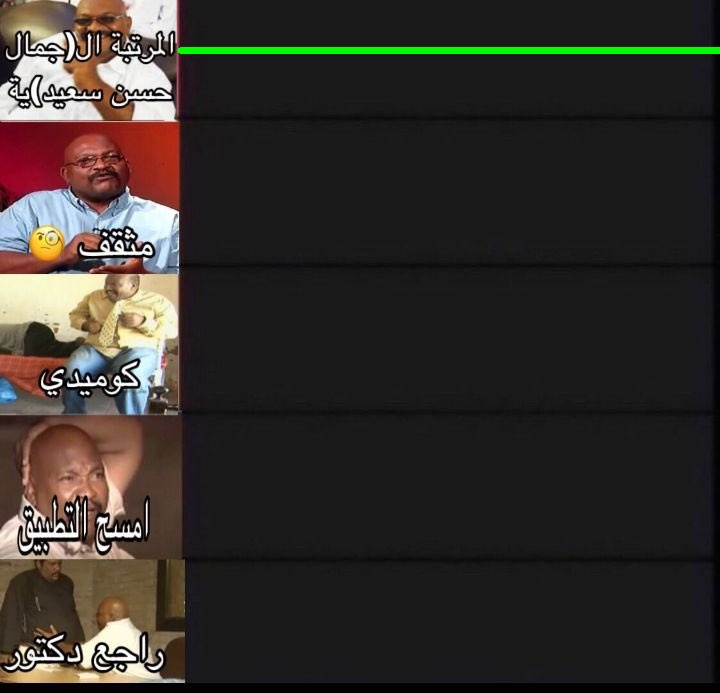
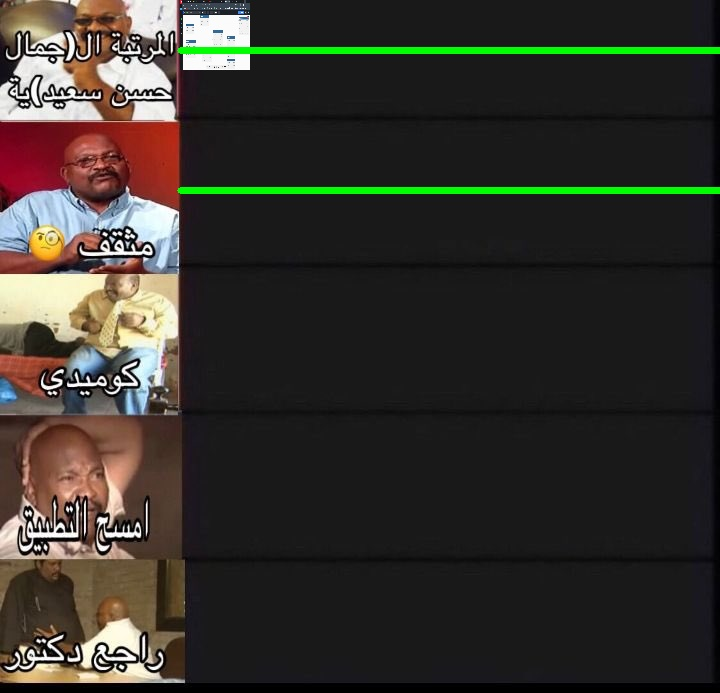
naseem

Changed region(s): [[0.2444, 0.2424, 1.0, 0.303], [0.2444, 0.0, 0.3667, 0.1212]]

diff --git a/twitter.py b/twitter.py
@@ -3,18 +3,43 @@ import numpy as np
 import cv2 
 import glob
 
-start = 50
-
+v_start = 50
+v_step = 70
+h_start = 180
+h_step = 50
 main = cv2.imread("main.jpg",1)
 images = [cv2.imread(file) for file in glob.glob("avatars/*.png")]
 height = int(main.shape[0])
 width = int(main.shape[1])
+
+def add_image(main,image,category,order):
+    w,h,c = image.shape
+
+    image = cv2.resize(image,(70,70))
+    if category < 2:
+        v_start = 0
+    if order > 8:
+        category += 1
+    x_offset=h_start + h_step * order
+    y_offset = v_start + v_step * category
+    main[y_offset:y_offset+image.shape[0], x_offset:x_offset+image.shape[1]] = image
+    
+    output = main
+    return output
+output = main
+output = add_image(output,images[0],0,0)
+# output = add_image(output,images[0],0,0)
+cv2.imshow('a',add_image(main,images[0],0,0))
+
+
 print(main.shape)
-test = cv2.line(main,(180,start),(width,start),(0,255,0),5)
+test = cv2.line(main,(180,v_start),(width,v_start),(0,255,0),5)
+test = cv2.line(main,(180,v_start + v_step*2),(width,v_start+ v_step*2),(0,255,0),5)
+
 # print(len(images))
 # print(main)
 
-cv2.imshow('test',main)
+# cv2.imshow('test',main)
 cv2.waitKey(0)
 
 # output = main
